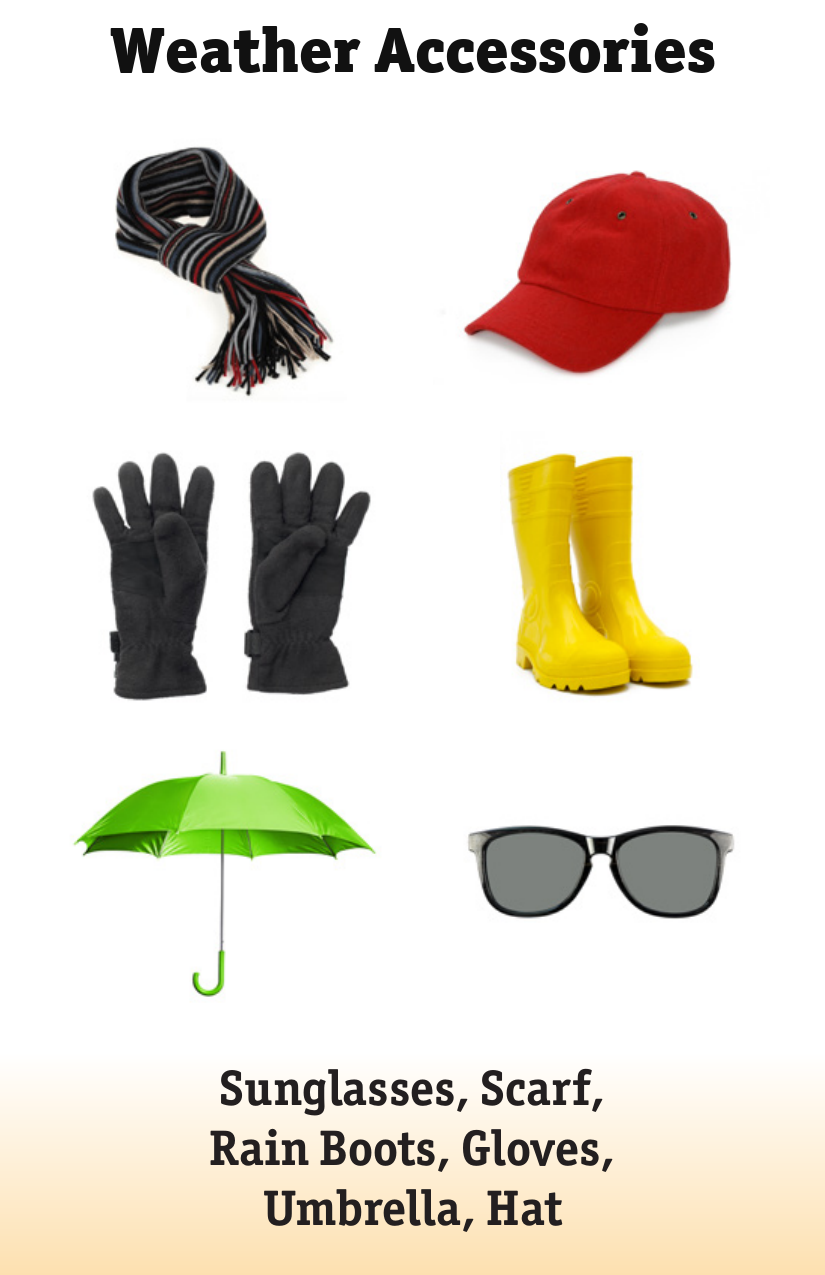
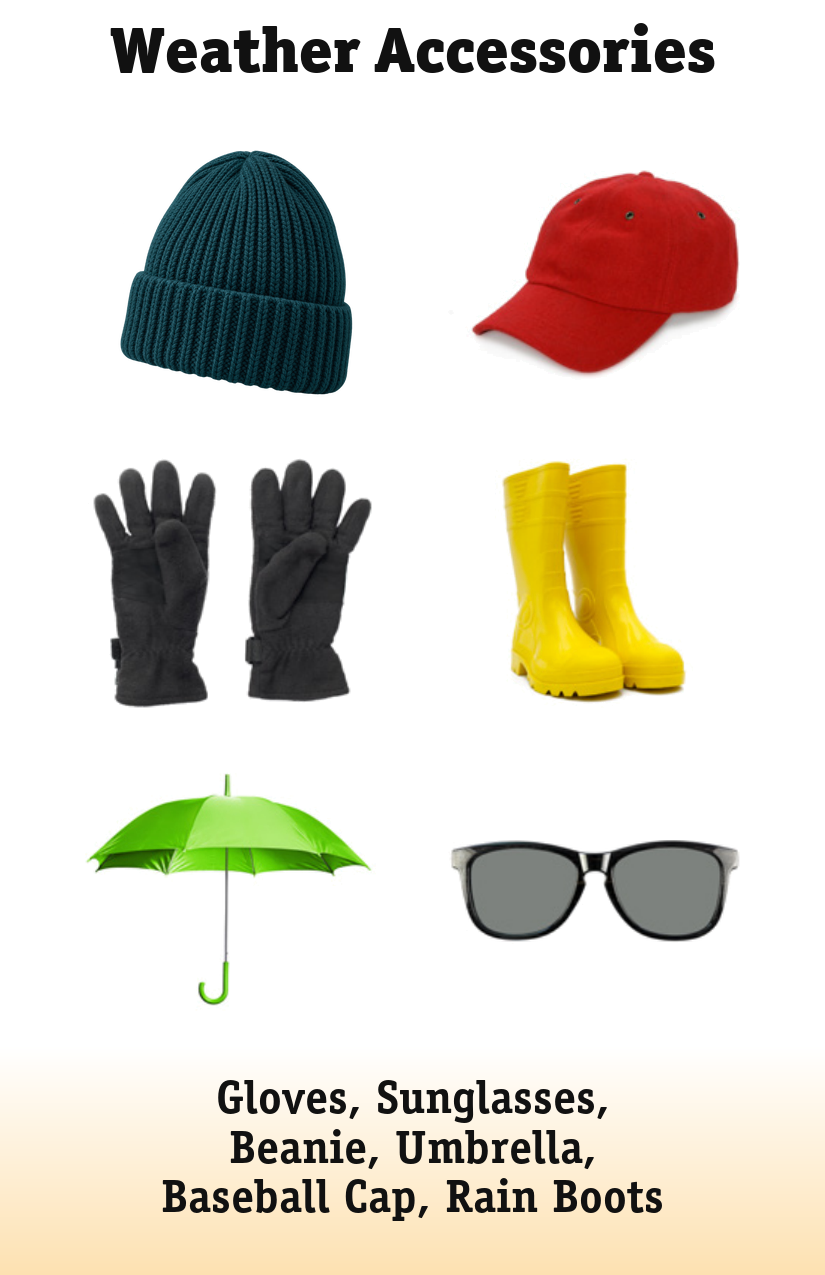
Rebuild Weather Accessories around exclusive weather pairs

diff --git a/picture-this/game-data.js b/picture-this/game-data.js
@@ -177,8 +177,8 @@ window.PICTURE_THIS_GAME_DATA = {
     "Bread"
   ],
   "outdoor-gear": [
-    "Scarf",
-    "Hat",
+    "Beanie",
+    "Baseball Cap",
     "Gloves",
     "Rain Boots",
     "Umbrella",
@@ -1406,6 +1406,42 @@ window.PICTURE_THIS_GAME_DATA = {
 window.PICTURE_THIS_GAME_META = {
   "schema_version": 1,
   "cards": {
+    "outdoor-gear": {
+      "title": "Weather Accessories",
+      "category_answers": ["Weather Accessories", "Weather Gear", "Outdoor Weather Gear", "Things for the Weather"],
+      "tags": ["weather", "outdoors", "clothing", "accessories"],
+      "items": [
+        {"id": "beanie", "label": "Beanie", "answers": ["Beanie", "Knit Cap", "Knitted Cap", "Winter Hat"]},
+        {"id": "baseball-cap", "label": "Baseball Cap", "answers": ["Baseball Cap", "Cap", "Baseball Hat", "Sun Cap"]},
+        {"id": "gloves", "label": "Gloves", "answers": ["Gloves", "Winter Gloves", "Warm Gloves"]},
+        {"id": "rain-boots", "label": "Rain Boots", "answers": ["Rain Boots", "Wellies", "Wellington Boots", "Rubber Boots"]},
+        {"id": "umbrella", "label": "Umbrella", "answers": ["Umbrella", "Rain Umbrella"]},
+        {"id": "sunglasses", "label": "Sunglasses", "answers": ["Sunglasses", "Sun Glasses", "Shades"]}
+      ],
+      "links": [
+        {
+          "word": "warmth",
+          "answers": ["warmth", "warm", "warming"],
+          "items": ["beanie", "gloves"],
+          "explanation": "The beanie and gloves are the only two items shown whose main purpose is keeping exposed body parts warm.",
+          "audit": "exclusive-among-six-v1"
+        },
+        {
+          "word": "rain",
+          "answers": ["rain", "rainy", "waterproof"],
+          "items": ["rain-boots", "umbrella"],
+          "explanation": "The rain boots and umbrella are the only two items shown specifically designed for rainy weather.",
+          "audit": "exclusive-among-six-v1"
+        },
+        {
+          "word": "glare",
+          "answers": ["glare", "sunlight"],
+          "items": ["baseball-cap", "sunglasses"],
+          "explanation": "The baseball cap and sunglasses are the only two items shown that directly shield the eyes from bright overhead glare.",
+          "audit": "exclusive-among-six-v1"
+        }
+      ]
+    },
     "bugs": {
       "title": "Insects",
       "category_answers": ["Insects", "Bugs", "Common Insects", "Types of Insects"],

diff --git a/picture-this/link-data.js b/picture-this/link-data.js
@@ -53,10 +53,7 @@ window.PICTURE_THIS_LINK_DATA = {
     pictureThisLink("keys", [4,5], "The piano and saxophone are the only two instruments shown played with keys.", ["keyed"])
   ],
   "market": [pictureThisLink("produce", [0,3], "Fruit and vegetables are the only two fresh-produce groups shown.")],
-  "outdoor-gear": [
-    pictureThisLink("waterproof", [3,4], "Rain boots and an umbrella are the only two items shown specifically designed as waterproof rain barriers.", ["rainproof"]),
-    pictureThisLink("sun", [1,5], "The hat and sunglasses are the only two items shown primarily used to shade the head or eyes from sun.", ["sunny"])
-  ],
+  "outdoor-gear": [],
   "pets": [pictureThisLink("aquatic", [1,4], "The fish and turtle are the only two pets shown that characteristically live in water.", ["water"])],
   "at-the-beach": [pictureThisLink("sunburn", [1,3], "The sun hat and sunscreen are the only two items shown specifically used to prevent sunburn.")],
   "in-the-kitchen": [pictureThisLink("mixing", [1,2], "The wooden spoon and mixing bowl are the only two items shown specifically named or designed for mixing.", ["mix"])],
@@ -319,7 +316,7 @@ const auditedLinkAdditions = {
     pictureThisLink("meats", [2,4], "Chicken and fish are the only two animal meats shown."),
     pictureThisLink("poultry", [1,2], "Eggs and chicken are the only two foods shown that are poultry products.")
   ],
-  "outdoor-gear": [pictureThisLink("winterwear", [0,1], "Scarf and hat are the only two gear items shown specifically worn on the head or neck.")],
+  "outdoor-gear": [],
   "pets": [
     pictureThisLink("companions", [0,2], "Cat and dog are the only two free-roaming household companion mammals shown."),
     pictureThisLink("caged", [3,5], "Parrot and rabbit are the only two pets shown commonly kept in cages or hutches.")

diff --git a/picture-this/question-data.js b/picture-this/question-data.js
@@ -971,45 +971,45 @@ window.PICTURE_THIS_QUESTION_DATA = {
   },
   "outdoor-gear": {
     "questions": [
-      "Which items on the card do you wear when it is sunny? Why?",
-      "Which items on the card do you wear when it is cold? Why?",
-      "Which items on the card do you use when it is rainy? Why?",
-      "What other things do you wear outside? Why?",
-      "During what parts of the year do you need special items to wear outside? Why?",
-      "Imagine you are going on vacation to the beach. What items would you take? Why?"
+      "Which items protect you from rain, cold, or bright sunlight?",
+      "How do the beanie and gloves help in different ways?",
+      "Why might you carry both rain boots and an umbrella?",
+      "How do a baseball cap and sunglasses reduce glare?",
+      "Which items would you choose for today's weather? Why?",
+      "Imagine the weather changes during a trip. Which three items would you pack?"
     ],
     "positions": [
-      13.14,
-      23.18,
-      33.29,
-      43.41,
-      53.53,
-      67.88
+      12.43,
+      22.75,
+      33.1,
+      43.45,
+      53.84,
+      64.16
     ],
     "endpoints": [
       {
-        "x": 75.64,
-        "y": 17.69
+        "x": 84.48,
+        "y": 16.98
       },
       {
-        "x": 71.88,
-        "y": 27.73
+        "x": 68.48,
+        "y": 27.29
       },
       {
-        "x": 62.3,
-        "y": 37.84
+        "x": 69.09,
+        "y": 37.33
       },
       {
-        "x": 45.45,
-        "y": 47.96
+        "x": 71.39,
+        "y": 48.04
       },
       {
-        "x": 45.45,
-        "y": 62.39
+        "x": 75.88,
+        "y": 58.35
       },
       {
-        "x": 38.67,
-        "y": 76.75
+        "x": 53.7,
+        "y": 73.06
       }
     ]
   },
